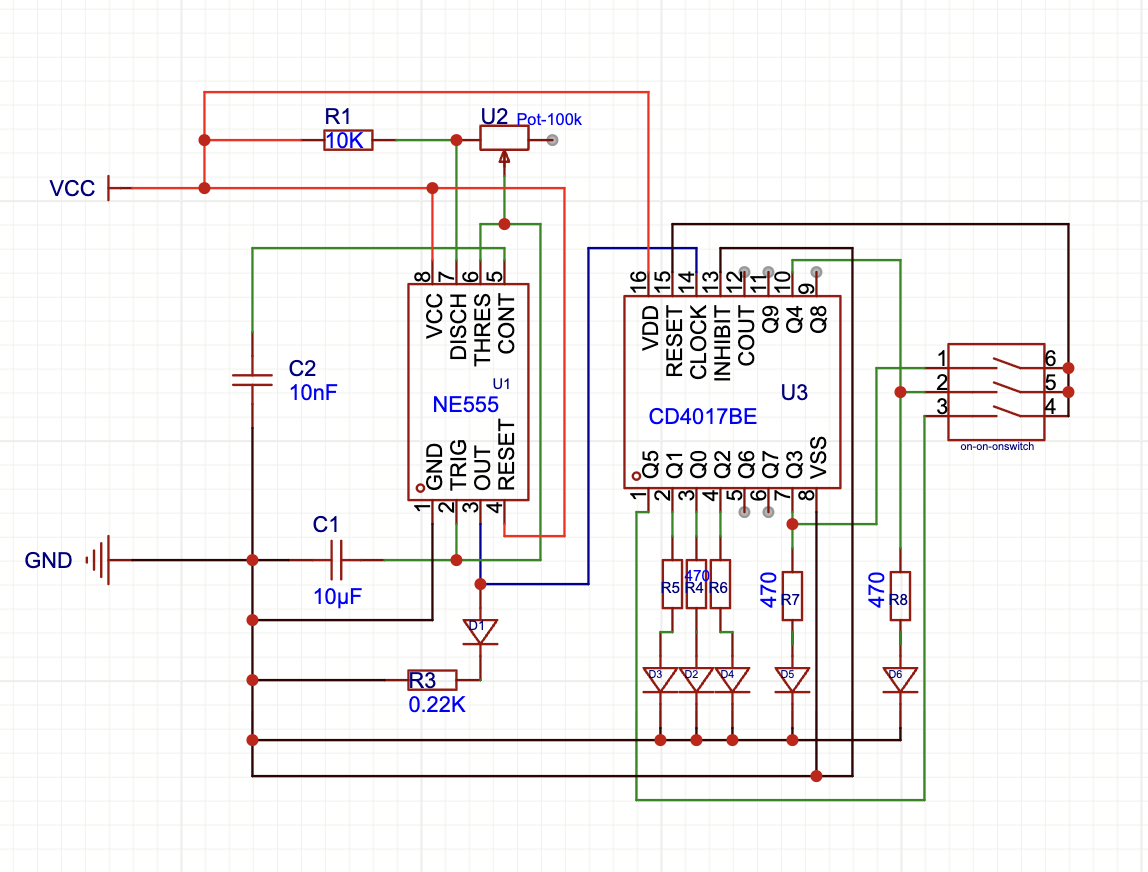
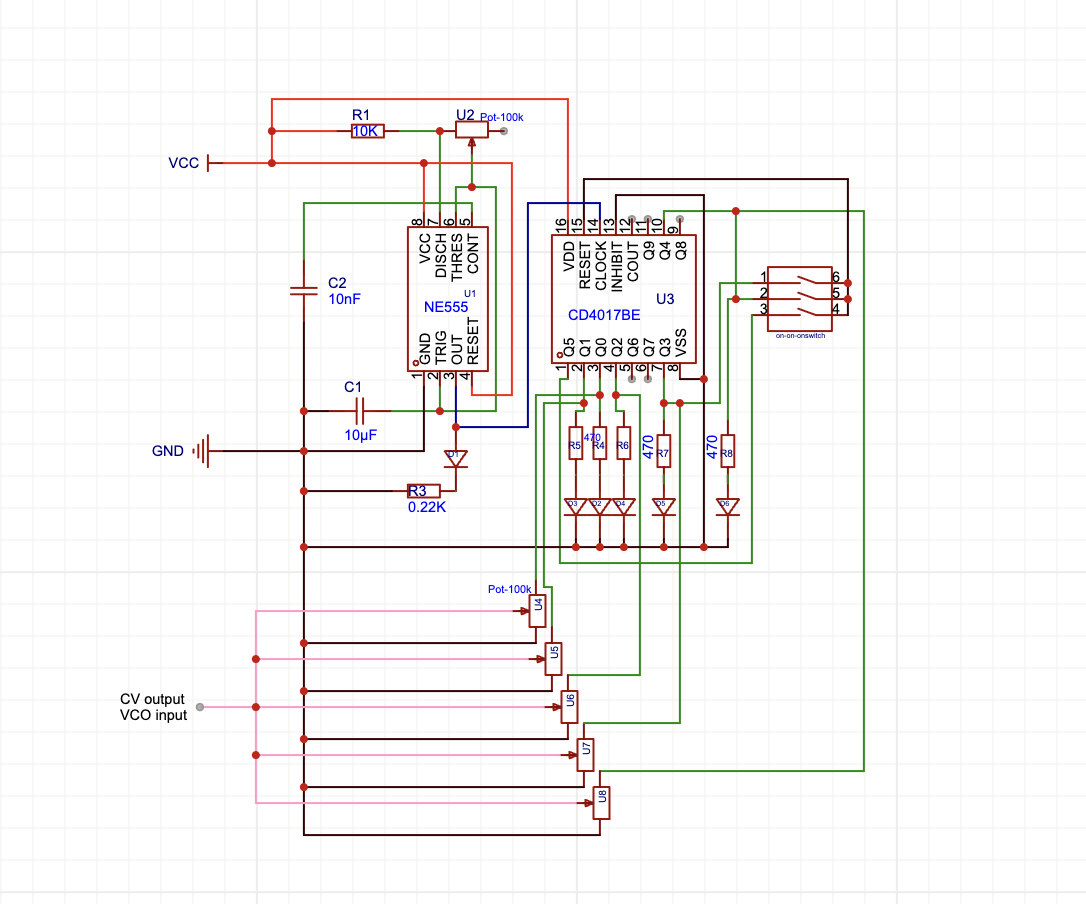
added potentiometers to cv outputs (Q0-Q4 pins) to control vco pitch later

Changed region(s): [[0.0304, 0.0929, 0.942, 0.9289], [0.0912, 0.1858, 0.1215, 0.2167], [0.0304, 0.1858, 0.0608, 0.2167]]

diff --git a/555-timer-clock + CD4017BE/README.md b/555-timer-clock + CD4017BE/README.md
@@ -1,18 +1,21 @@
-555 Timer + CD4017BE Circuit
+555 Timer + CD4017BE Sequencer Circuit
 
 ## Overview
-This project demonstrates a basic sequential LED chaser using a 555 timer IC and a CD4017BE decade counter. The 555 timer generates clock pulses, which advance the CD4017BE outputs in sequence.
+This project demonstrates a basic sequential LED chaser using a 555 timer IC 
+and a CD4017BE decade counter. The 555 timer generates clock pulses, which advance the CD4017BE outputs in sequence.
 
 ### How the Circuit Works
 1. The 555 timer outputs a square wave that acts as a clock for the CD4017BE.
 2. The CD4017BE has 10 outputs, but this circuit uses only 5 outputs (Q0-Q4).
 3. LEDs connected to these 5 outputs light up in sequence, creating a “running light” effect.
-4. The sequence can be controlled to run 3-5 steps. A switch (3 position on-on-on switch) controls the reset pin (pin 15)
+4. The sequence can be controlled to run 3-5 steps. A switch (3 position on-on-on switch) 
+   controls the reset pin (pin 15)
    - You can select whether the counter resets at step 3, 4, or 5.
    - This effectively limits the sequence to run only the first 3, 4, or 5 steps, depending on
      the switch position.
    - This allows a customizable limited sequence instead of counting through all outputs.
-5. The speed of the sequence can be adjusted using the 555 timer’s resistor and capacitor values, or a potentiometer.
+5. The speed of the sequence can be adjusted using the 555 timer’s resistor and capacitor 
+   values, or a potentiometer.
 
 ## Components Needed
 - 555 Timer IC - configured in astable mode to generate clock pulses
@@ -28,9 +31,23 @@ This project demonstrates a basic sequential LED chaser using a 555 timer IC and
 
 
 
-// turns out To create a 5-step cycle (length 5) using a CD4017 decade counter with a 555 timer, you do not put the reset pin (Pin 15) to ground permanently. 
+******** fix 1 ********
+// turns out To create a 5-step cycle (length 5) using a CD4017 decade counter with a 555 
+   timer, you do not put the reset pin (Pin 15) to ground permanently. 
 1. Clock Input: Connect the 555 timer output (Pin 3) to the 4017 clock input (Pin 14).
 2. Reset Pin (Pin 15): Connect this pin to the Q5 output (Pin 1). 
-        * How it works: The 4017 counts Q0, Q1, Q2, Q3, Q4, Q5... As soon as the count reaches 5 (Q5), the reset pin is activated, immediately resetting the count back to Q0. This creates a cycle of 5 (Q0-Q4).
+        * How it works: The 4017 counts Q0, Q1, Q2, Q3, Q4, Q5... As soon as the count 
+        reaches 5 (Q5), the reset pin is activated, immediately resetting the count back to Q0. 
+        This creates a cycle of 5 (Q0-Q4).
 3. Clock Inhibit (Pin 13): Ground this pin. 
 4. Power: Connect VDD (Pin 16) to VCC and VSS (Pin 8) to ground
+
+
+******** fix 2 ********
+The sequencer outputs control voltage (CV) from pins Q0–Q4. To enable per-step voltage tuning, each output is connected to a potentiometer. These CV signals are routed to the VCO input, where the voltage level determines the pitch.
+
+- CV signals are routed to the VCO input  
+- The voltage level determines the pitch  
+- Each step can produce a different note  
+
+Without these potentiometers, all steps would output the same voltage, and the VCO would play a constant pitch.
